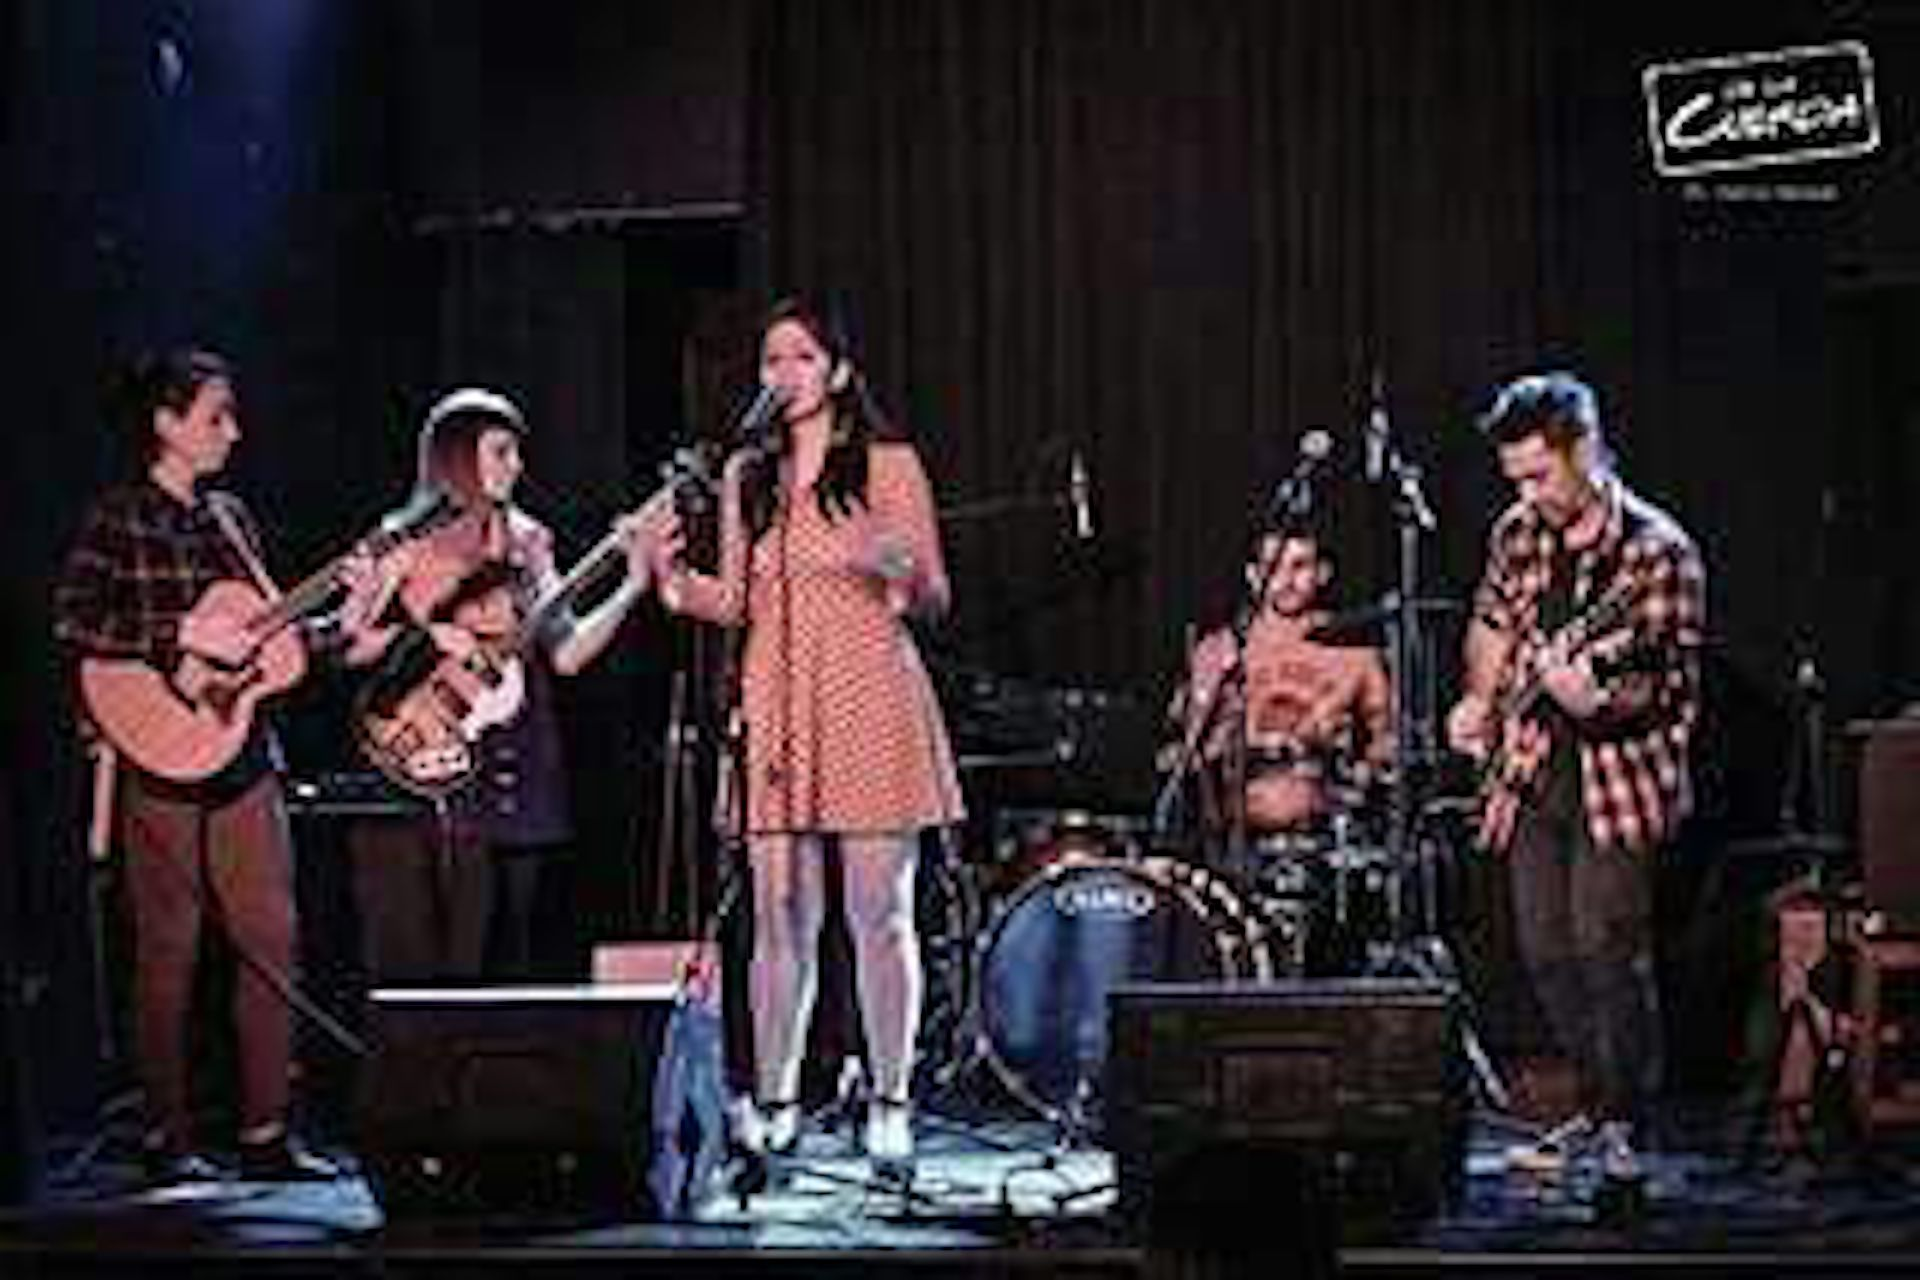
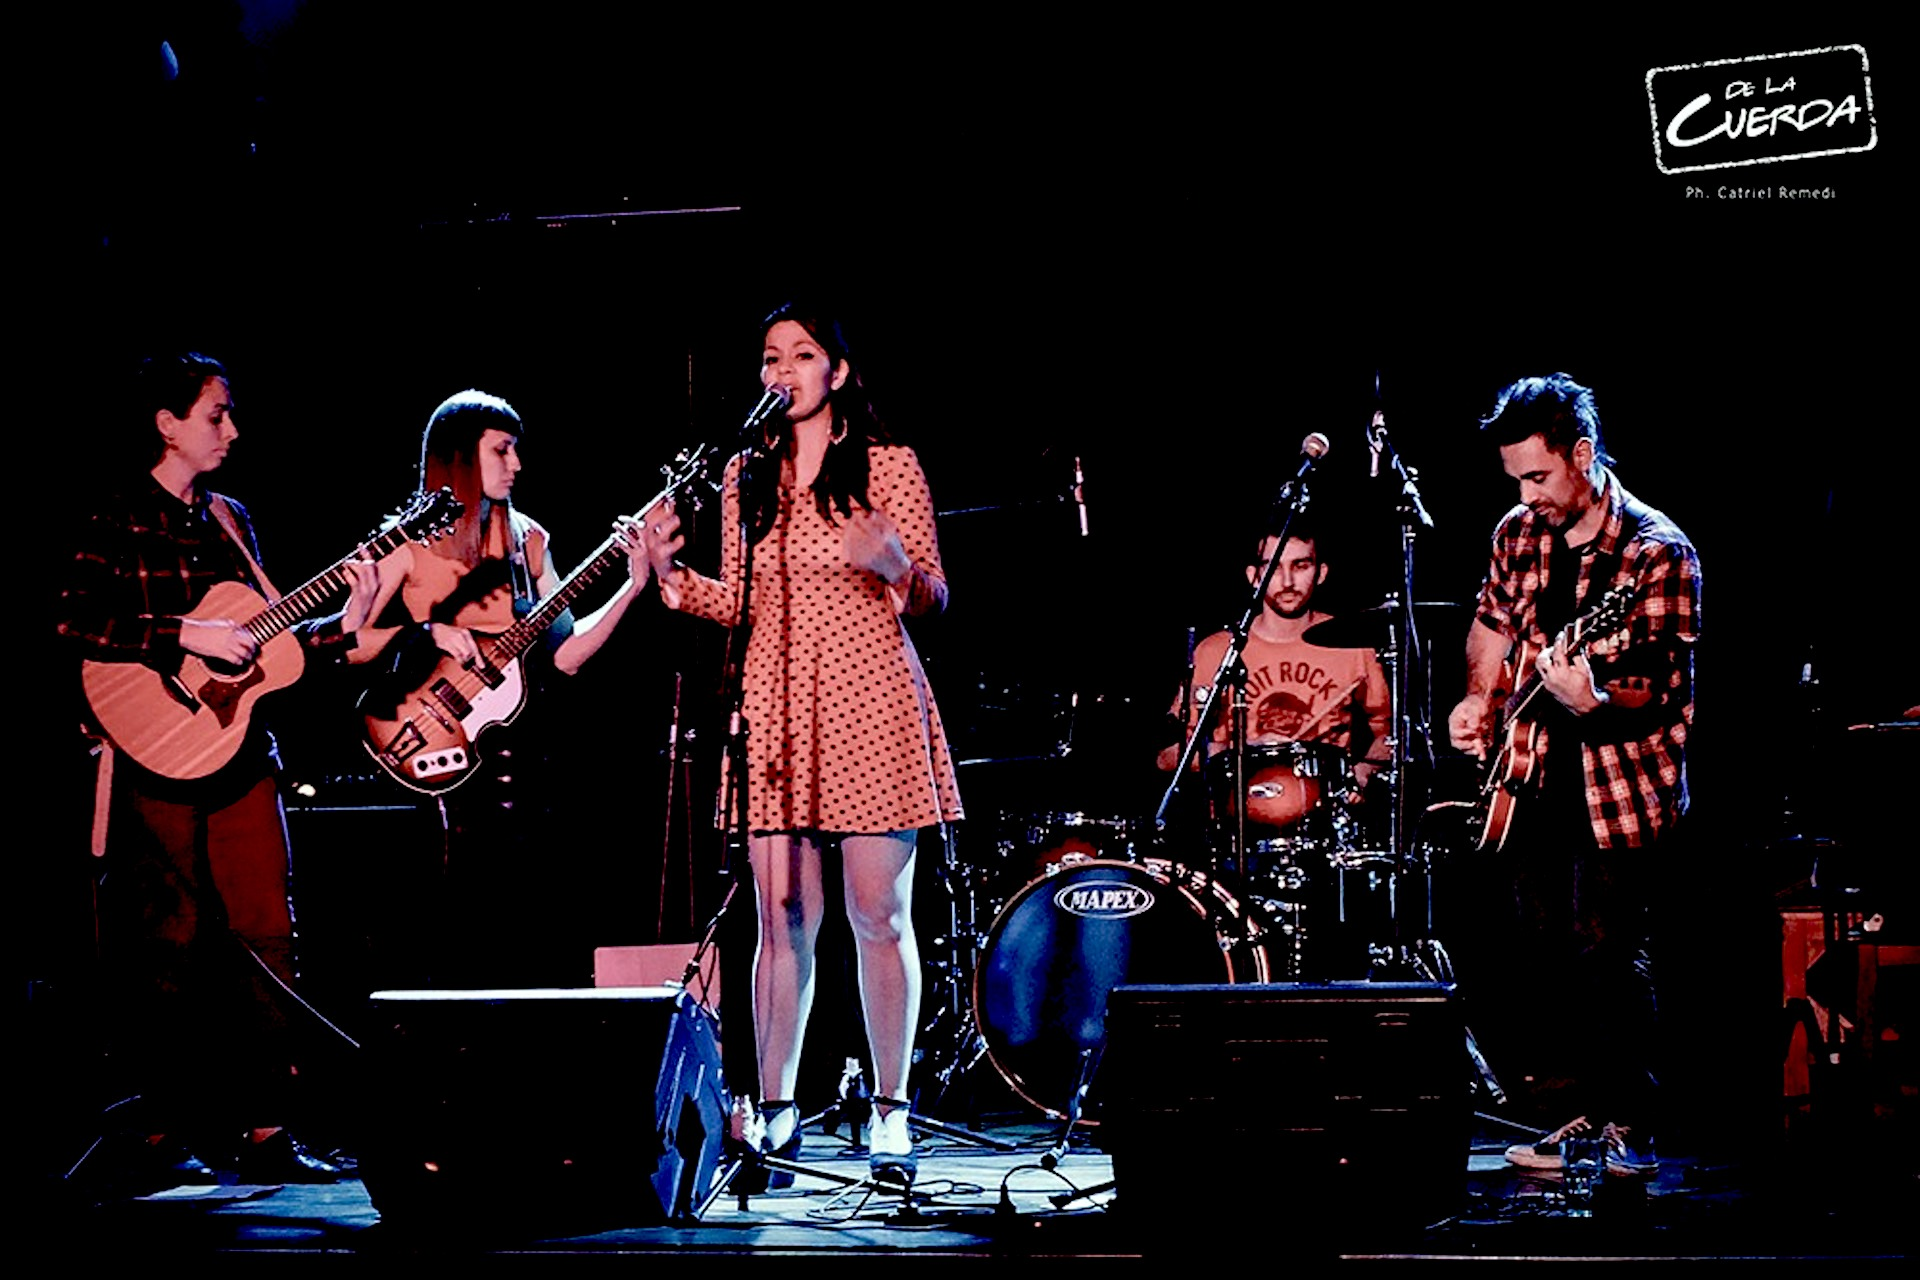
sponsors and new background

diff --git a/index.html b/index.html
@@ -453,7 +453,7 @@
         <div class="row">
           <div class="col-lg-3 col-md-6">
             <div class="member">
-              <div class="pic"><a href="https://luchaincandilatta.bandcamp.com/"><img src="img/friends/luciahernandez.jpg" alt=""></a></div>
+              <div class="pic"><a href="https://luchaincandilatta.bandcamp.com/" target="_blank"><img src="img/friends/luciahernandez.jpg" alt=""></a></div>
               <h5>Luciana Hernandez</h5>
               <div class="social"><!--
                 <a href=""><i class="fa fa-twitter"></i></a>
@@ -464,7 +464,27 @@
             </div>
           </div>
         </div>
-
+        <div class="section-header">
+          <h3 class="section-title">Nos Acompa&ntilde;an</h3>
+        </div>
+        <div class="row">
+          <div class="col-lg-3 col-md-6">
+            <div class="member">
+              <div class="pic"><a href="http://www.delacuerda.com.ar/" target="_blank"><img src="img/sponsors/delacuerda.png" alt=""></a></div>
+              <h4>De La Cuerda</h4>
+              <div class="social">
+              </div>
+            </div>
+          </div>
+          <div class="col-lg-3 col-md-6">
+            <div class="member">
+              <div class="pic"><a href="https://www.facebook.com/lajulieta.estudios" target="_blank"><img src="img/sponsors/lajulieta.jpg" alt=""></a></div>
+              <h4>La Julieta</h4>
+              <div class="social">
+              </div>
+            </div>
+          </div>
+        </div>
       </div>
     </section><!-- #team -->
 
